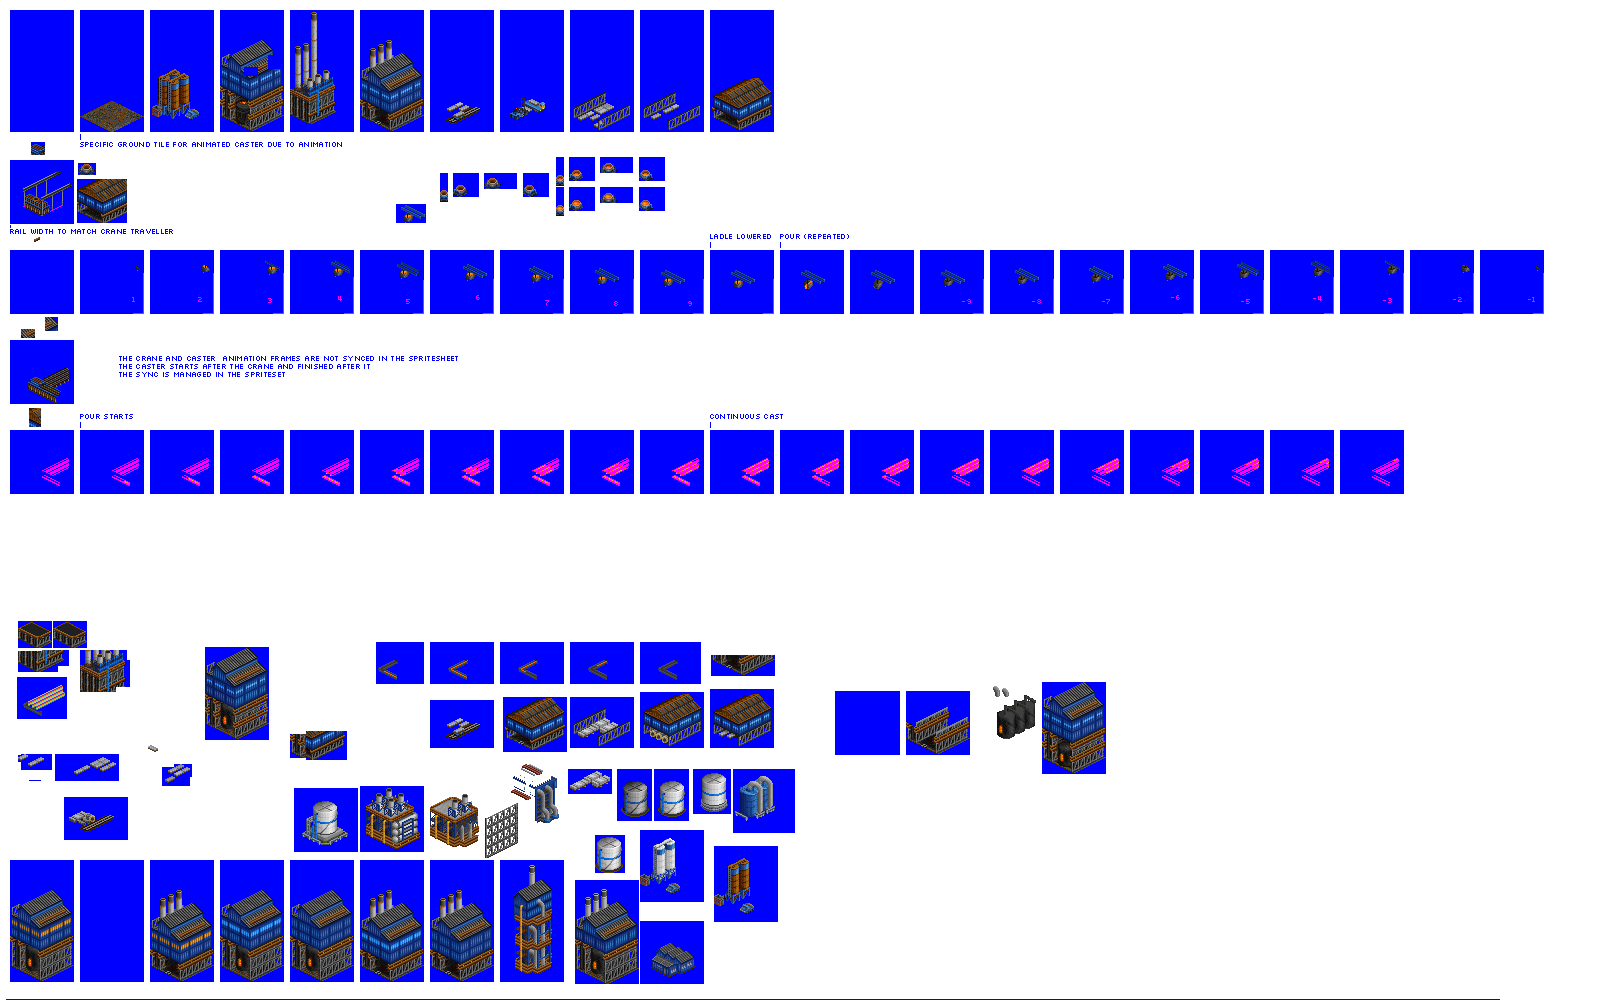
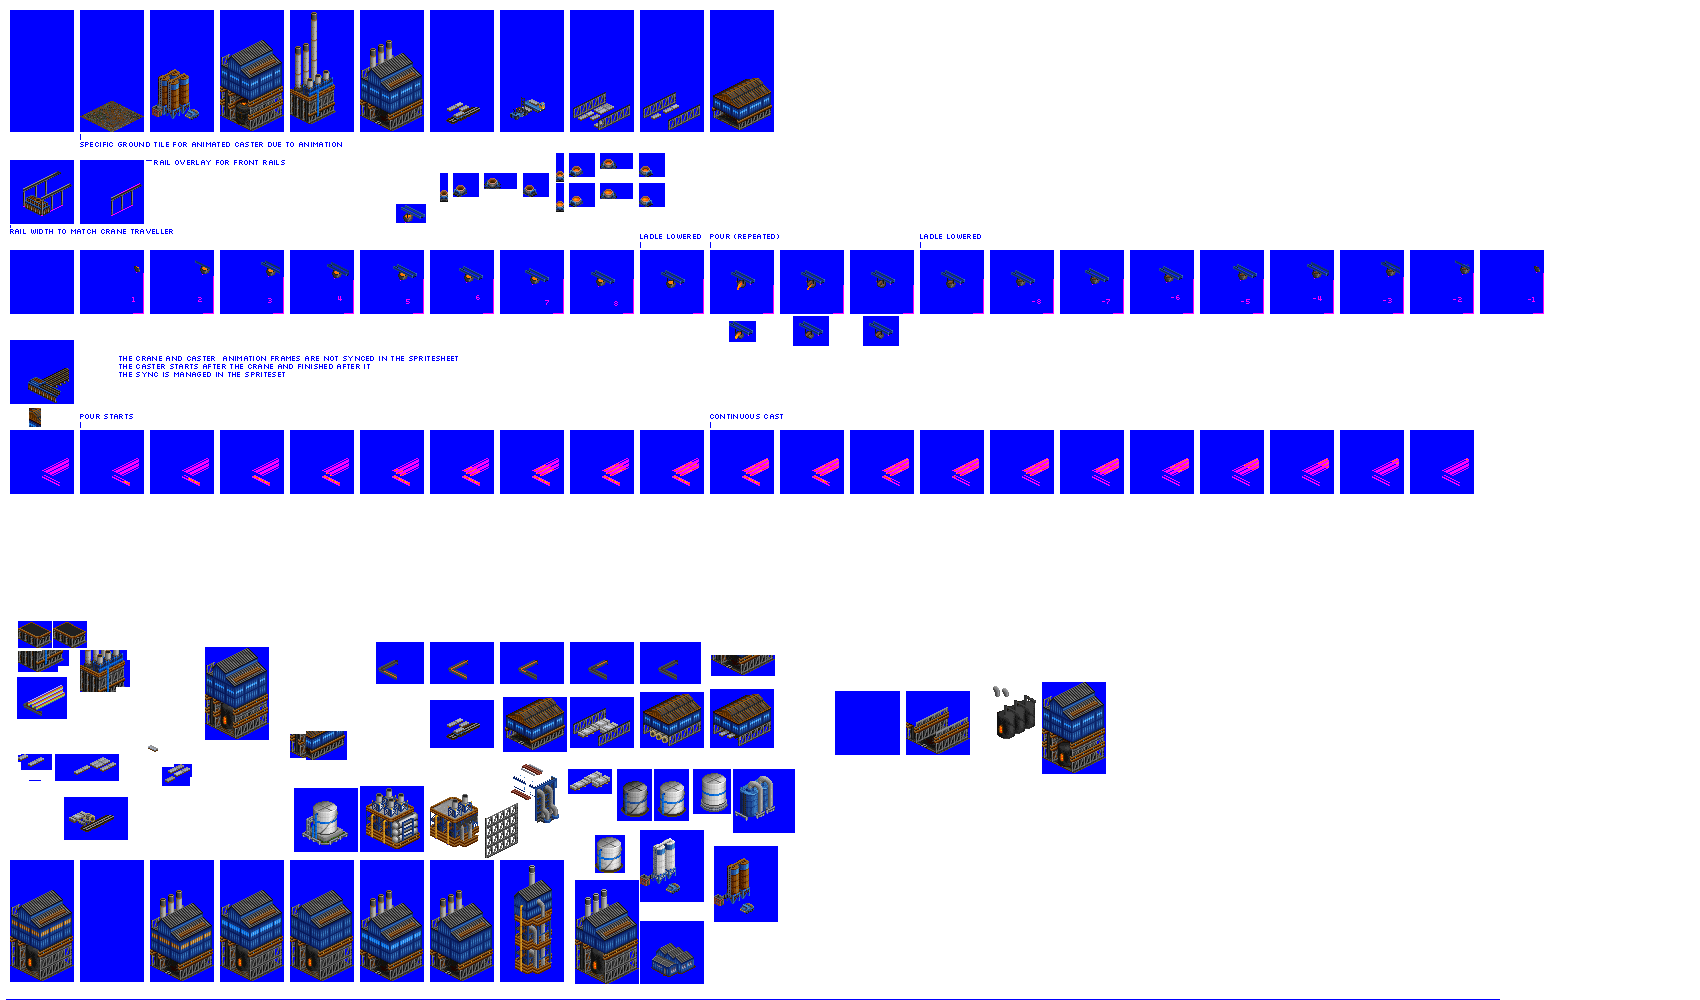
Change: more tweaks to BOF animation

diff --git a/src/industries/basic_oxygen_furnace.py b/src/industries/basic_oxygen_furnace.py
@@ -97,16 +97,17 @@ spriteset_caster_crane_animated = industry.add_spriteset(
         (500, 250, 64, 64, -31, -33),
         (570, 250, 64, 64, -31, -33),
         (640, 250, 64, 64, -31, -33),
+        # repeat the pour for 9 frames
         (710, 250, 64, 64, -31, -33),
-        # repeat the pour for 10 frames
-        (780, 250, 64, 64, -31, -33),
-        (780, 250, 64, 64, -31, -33),
-        (780, 250, 64, 64, -31, -33),
-        (780, 250, 64, 64, -31, -33),
-        (780, 250, 64, 64, -31, -33),
-        (780, 250, 64, 64, -31, -33),
-        (780, 250, 64, 64, -31, -33),
-        (780, 250, 64, 64, -31, -33),
+        (710, 250, 64, 64, -31, -33),
+        (710, 250, 64, 64, -31, -33),
+        (710, 250, 64, 64, -31, -33),
+        (710, 250, 64, 64, -31, -33),
+        (710, 250, 64, 64, -31, -33),
+        (710, 250, 64, 64, -31, -33),
+        (710, 250, 64, 64, -31, -33),
+        (710, 250, 64, 64, -31, -33),
+        # repeat the end of the pour for 2 frames
         (780, 250, 64, 64, -31, -33),
         (780, 250, 64, 64, -31, -33),
         (850, 250, 64, 64, -31, -33),
@@ -127,6 +128,14 @@ spriteset_caster_crane_animated = industry.add_spriteset(
 spriteset_caster_gantry_animated = industry.add_spriteset(
     sprites=[
         (10, 160, 64, 64, -31, -33),
+    ],
+    # autofills number of frames to match another spriteset which is animated etc (can get frame count from the other spriteset if defined already)
+    num_sprites_to_autofill=len(spriteset_caster_crane_animated.sprites),
+)
+# needed to overlay the ladle
+spriteset_caster_gantry_overlay_animated = industry.add_spriteset(
+    sprites=[
+        (80, 160, 64, 64, -31, -33),
     ],
     # autofills number of frames to match another spriteset which is animated etc (can get frame count from the other spriteset if defined already)
     num_sprites_to_autofill=len(spriteset_caster_crane_animated.sprites),
@@ -171,10 +180,11 @@ spriteset_caster_metal_run_animated = industry.add_spriteset(
         (1200, 430, 64, 64, -31, -33),
         (1270, 430, 64, 64, -31, -33),
         (1340, 430, 64, 64, -31, -33),
+        (1410, 430, 64, 64, -31, -33),
     ],
     animation_rate=1,
     # the offset here acts to extend the animation, and for this case should be the total number of animation frames provided in the spriteset
-    custom_sprite_selector="(animation_frame < 31) ? (animation_frame % 31) : 0",
+    custom_sprite_selector="(animation_frame < 32) ? (animation_frame % 32) : 0",
 )
 spriteset_caster_machinery_animated = industry.add_spriteset(
     sprites=[
@@ -280,6 +290,7 @@ industry.add_spritelayout(
     building_sprites=[
         spriteset_caster_gantry_animated,
         spriteset_caster_crane_animated,
+        spriteset_caster_gantry_overlay_animated,
     ],
     fences=["nw", "ne", "se", "sw"],
 )
